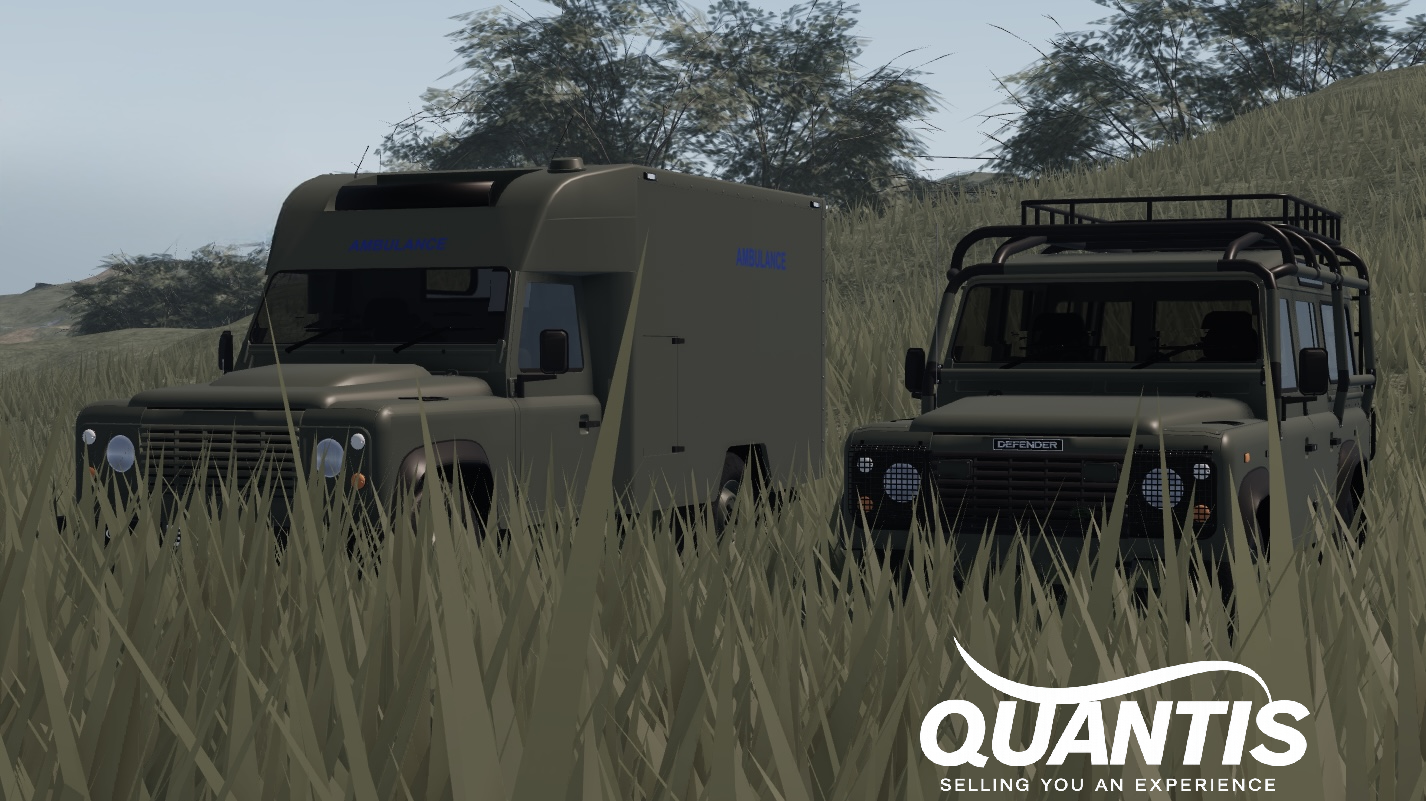
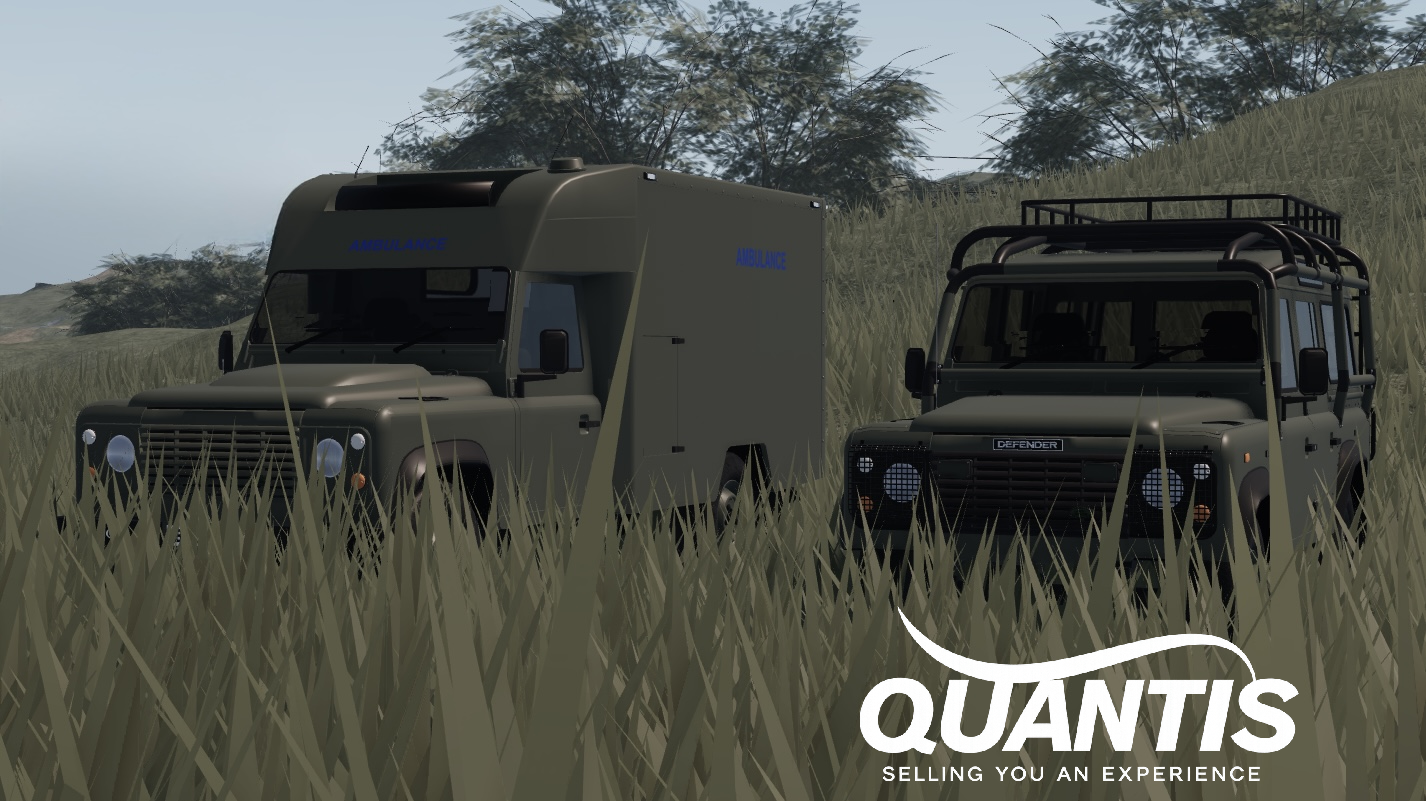
Changes

Changed region(s): [[0.5863, 0.7803, 0.9257, 0.9988]]

diff --git a/supabase/functions/watermark-product-image/index.ts b/supabase/functions/watermark-product-image/index.ts
@@ -76,14 +76,14 @@ Deno.serve(async (req) => {
     const cropHeight = bottomContent + 1;
     const croppedWm = wm.clone().crop(0, 0, wm.width, cropHeight);
     
-    const targetW = Math.round(img.width * 0.40);
+    const targetW = Math.round(img.width * 0.45);
     const scale = targetW / croppedWm.width;
     const targetH = Math.round(croppedWm.height * scale);
     const scaledWm = croppedWm.resize(targetW, targetH);
 
     // Position bottom-right, flush with edges
     const padX = Math.round(img.width * 0.02);
-    const padY = 10; // Small gap from bottom
+    const padY = 20; // A bit more gap from bottom
     const x = img.width - targetW - padX;
     const y = img.height - targetH - padY;
     img.composite(scaledWm, x, y);
